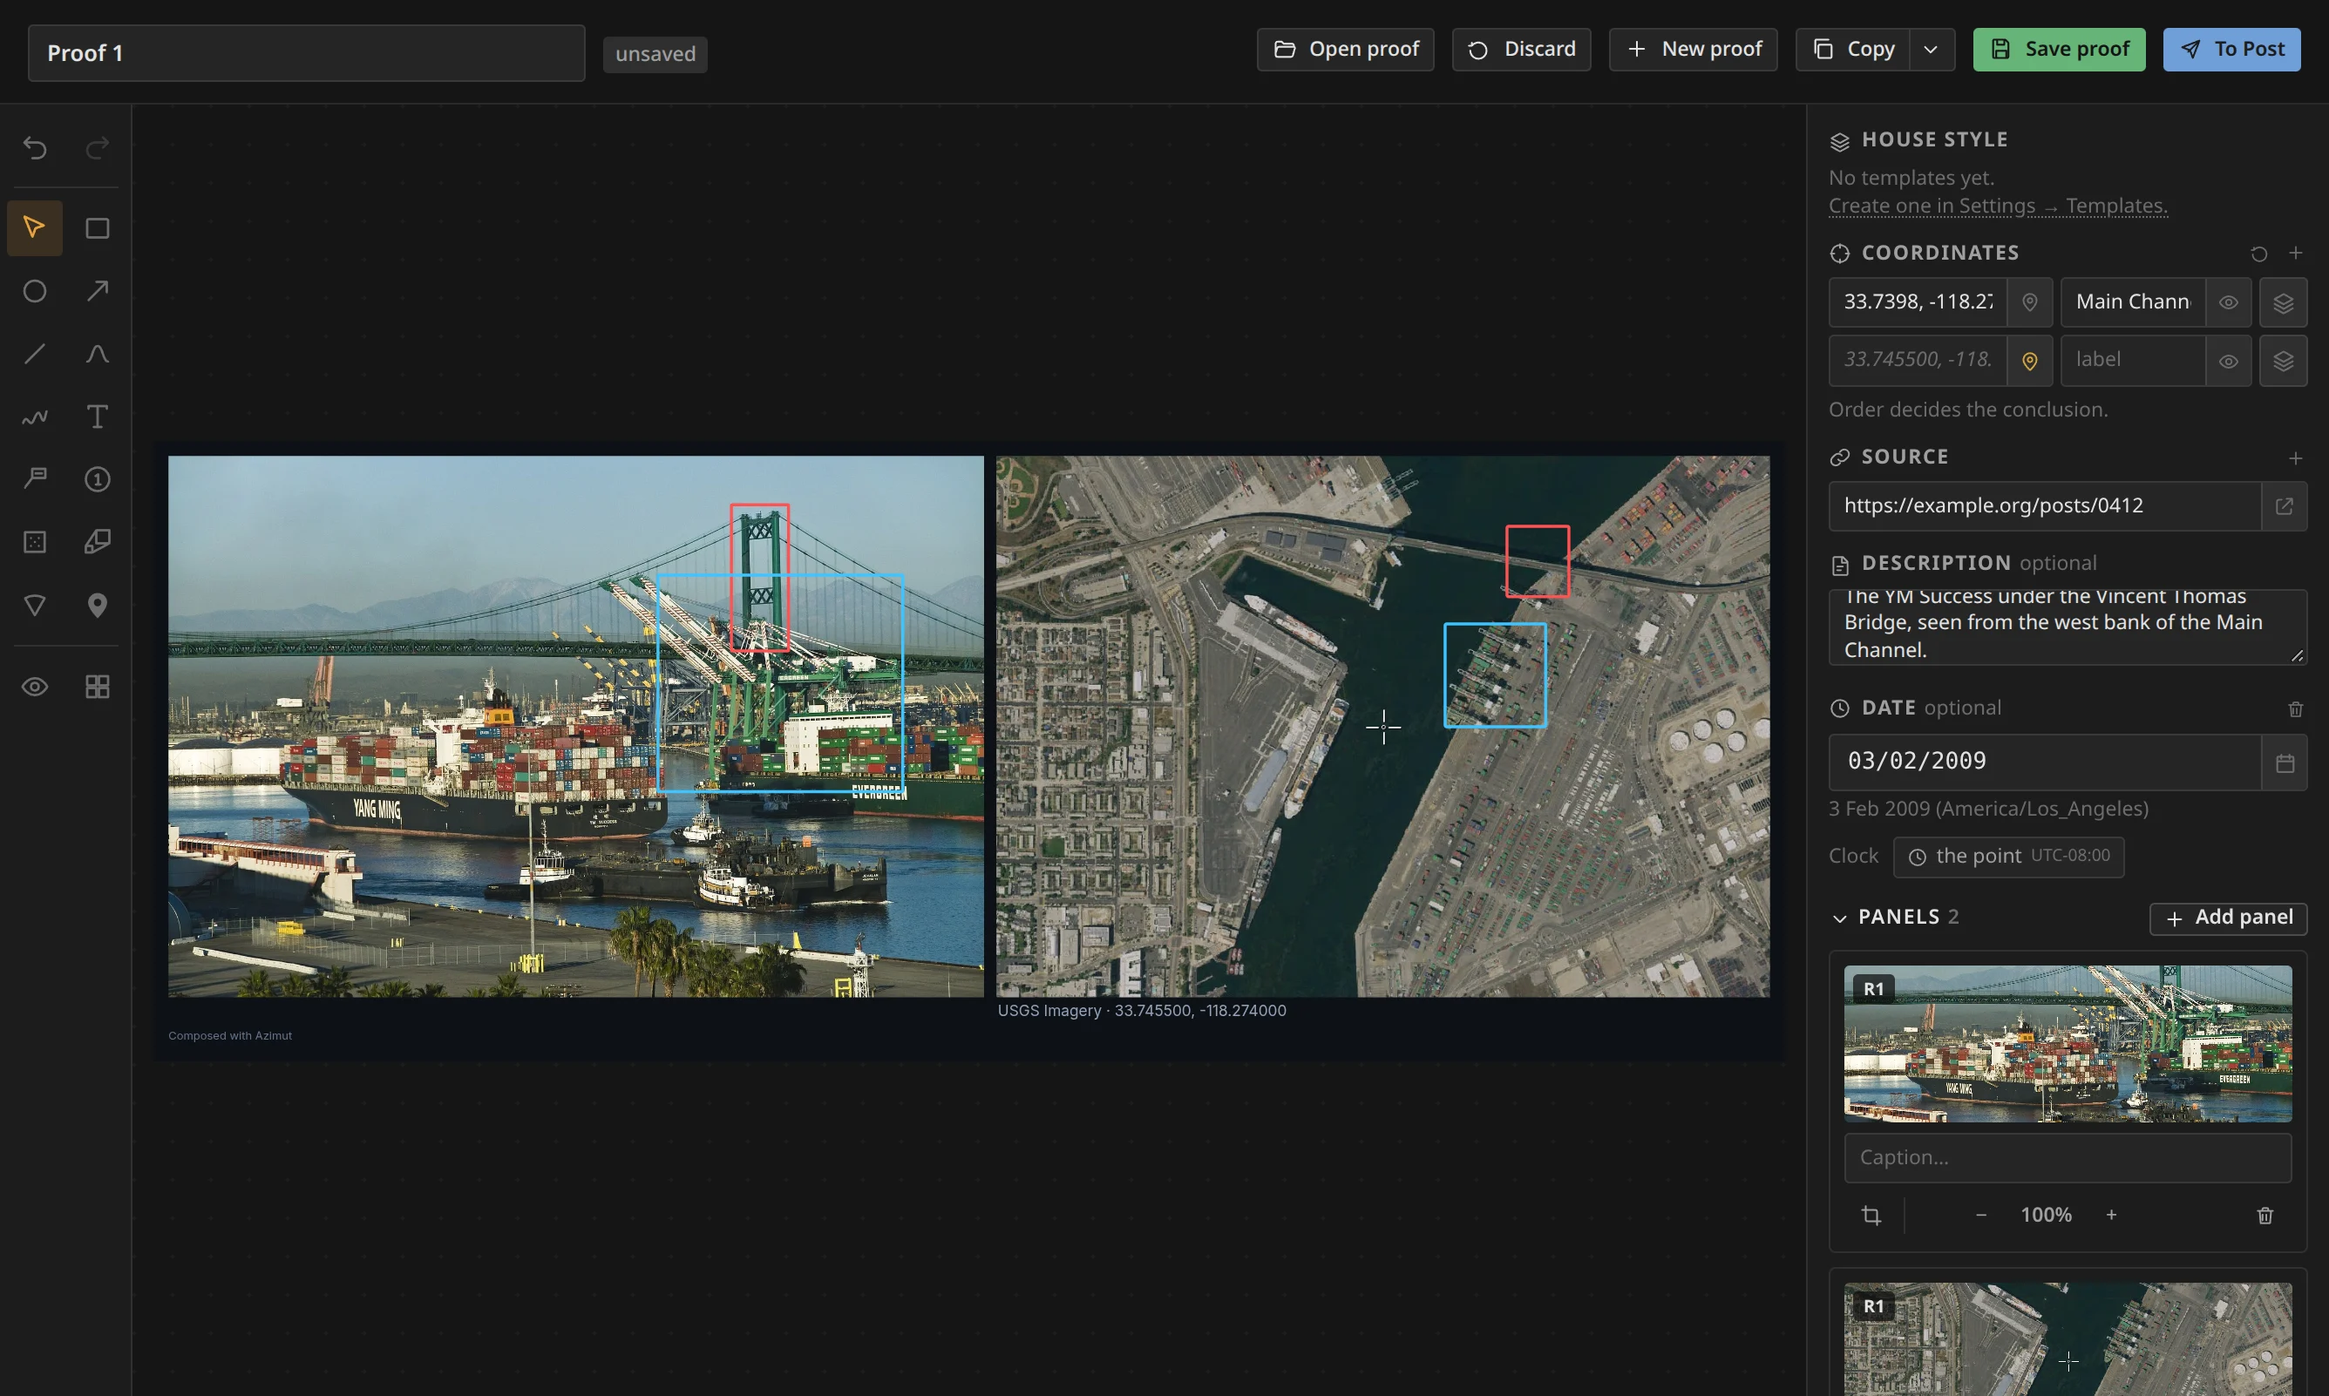
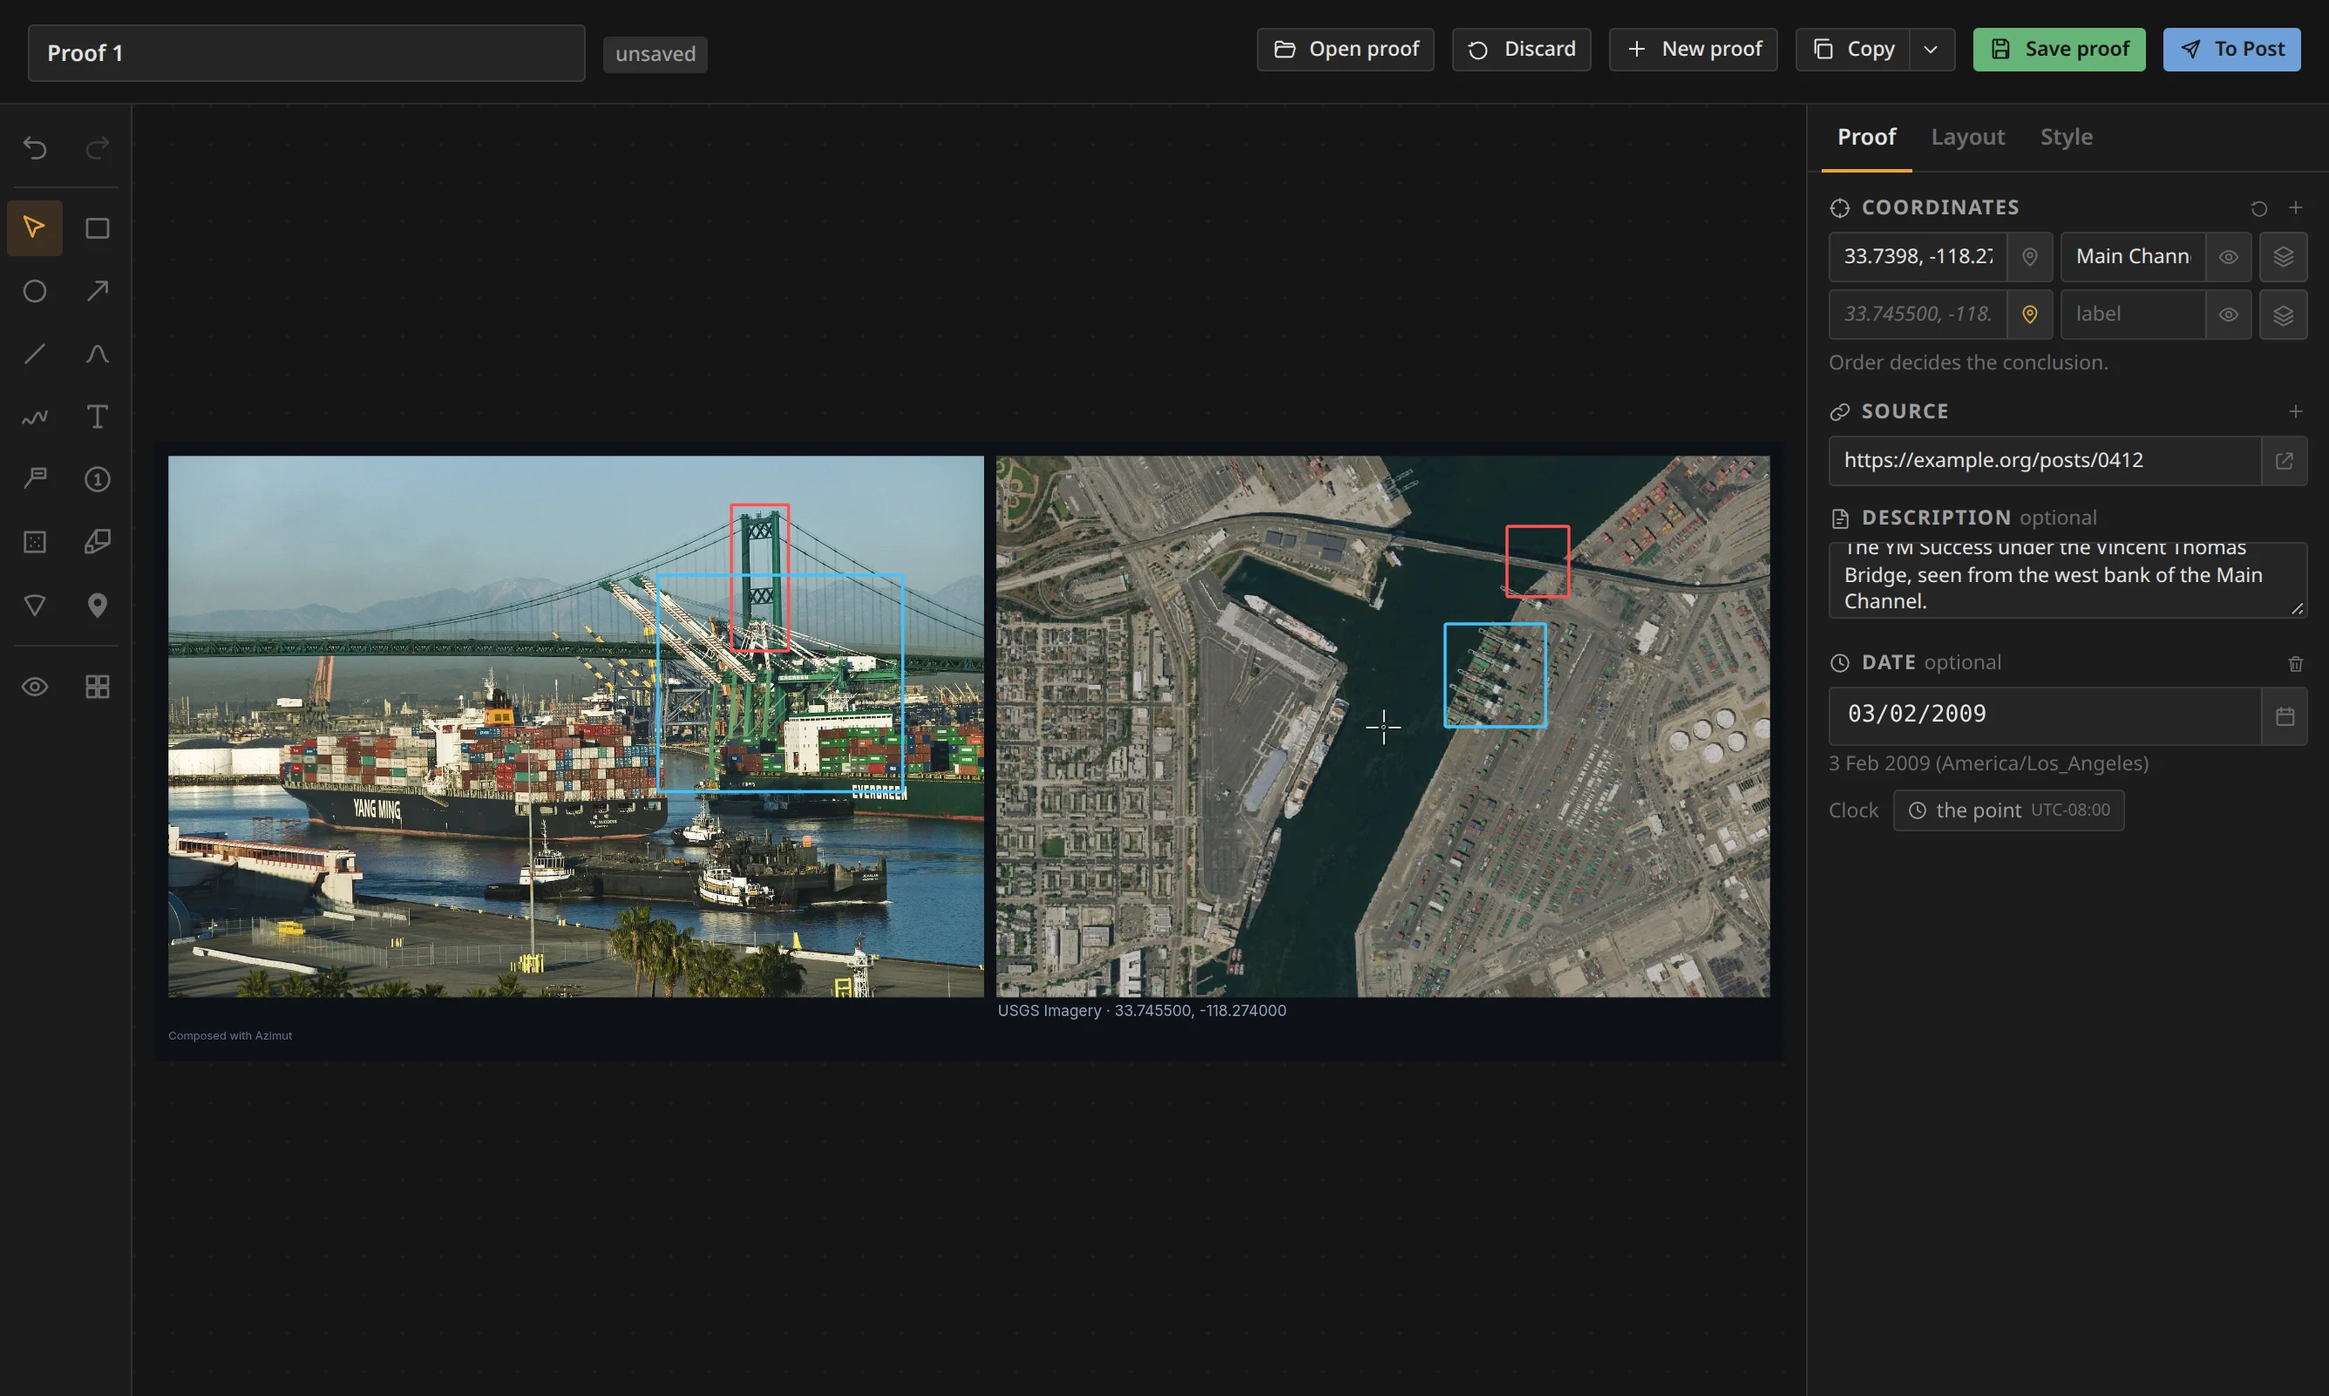
Mark Geo Proof's tabs in the guide, retake its picture with both points, and describe the tabs, the narrow header and player, and the scene offered on a capture

diff --git a/frontend/src/lib/guide.js b/frontend/src/lib/guide.js
@@ -701,7 +701,7 @@ export const PAGES = {
       { anchor: 'proof.canvas', title: 'The page', text: 'A mark dragged into the margin stays put, and an arrow between two pictures follows both.' },
       { anchor: 'proof.coords', title: 'The point', text: 'Filled from a satellite panel or typed. Each place can be named, and one can be the camera.' },
       { anchor: 'proof.meta', title: 'Source, description, date', text: 'Several sources, a description, and a date read on a clock, at the point or in UTC.' },
-      { anchor: 'proof.panels', title: 'Panels', text: 'The pictures, each with a caption, a crop and a zoom.' },
+      { anchor: 'proof.tabs', title: 'Tabs', text: 'Proof holds the facts, Layout the pictures and their marks, Style the look. A proof on a video adds Scene.' },
       { anchor: 'proof.save', title: 'Save and post', text: 'Saves the PNG with its spec, so it reopens and edits. To Post carries it into Geo Report.' },
     ],
     tips: [
@@ -928,7 +928,7 @@ export const JOURNEYS = [
         text: 'Search the area and hold the photo over the map in a reference window. Use whichever Map tool helps, Compare, Horizon, Measure or the sun, then capture the view.',
         marks: ['sat.search', 'map.ref', 'sat.tools', 'sat.capture'],
       },
-      { tool: 'proof', text: 'Put the photo beside the capture, mark what agrees in one colour per feature, and name the point. It is filed as a place.', marks: ['proof.panels', 'proof.tools', 'proof.coords'] },
+      { tool: 'proof', text: 'Put the photo beside the capture, mark what agrees in one colour per feature, and name the point. It is filed as a place.', marks: ['proof.tabs', 'proof.tools', 'proof.coords'] },
       { tool: 'post', text: 'Turn the proof into a sourced thread, then Publish copies the posts and opens the site.', marks: ['post.first', 'post.publish'] },
     ],
     result: {

diff --git a/frontend/src/tools/proof/ProofSideTabs.svelte b/frontend/src/tools/proof/ProofSideTabs.svelte
@@ -25,7 +25,7 @@
   }
 </script>
 
-<div class="side-tabs" role="tablist" aria-label="Proof settings" tabindex="-1" onkeydown={key}>
+<div class="side-tabs" role="tablist" aria-label="Proof settings" tabindex="-1" onkeydown={key} data-guide="proof.tabs">
   {#each tabs as one (one.id)}
     {@const on = one.id === current}
     {@const warn = one.id === 'proof' && !!needs}

diff --git a/docs/UI.md b/docs/UI.md
@@ -1791,13 +1791,17 @@ one in its colour, a pin at an instant and a band over a passage, named on hover
 The button opens and closes a **drawer docked on the video's right**, above the bar:
 it narrows the picture, which fits itself again, rather than covering it, and closes
 whenever a file opens. It lists the scenes in clip order, a scene about the whole
-video first: a passage to play on a loop, a word about what to find, End here and
-remove. **Pressing a scene's time goes there and opens it in its row**: Whole video,
+video first: a passage to play on a loop, a word about what to find and remove on its
+line, and under its time End here and **Make the proof**, said in words. **Pressing a scene's time goes there and opens it in its row**: Whole video,
 Instant or Passage, each end typed (`1:05`, `65`, `1:05.5`), taken from the frame on
 screen with **Here**, nudged a frame with ↑ and ↓, or dragged by its handle on the
 bar. Meanwhile **S** and **Shift+S** set the start and the end. Enter or Apply keeps
 it, and so does closing the drawer; Escape drops it, and a second Escape closes the
 drawer. A draft's change goes back with Ctrl+Z like the rest.
+**A narrow player keeps its buttons.** The frame on screen is never cut: the frame
+count goes first, then the clip's length and the keys hint, then the word Scenes (its
+pin and count stay), and past that the last buttons wrap whole, on the right. The
+drawer gives way down to 260 px before the picture shrinks below a third of the room.
 **The proofs resting on the clip are its proved scenes**, in the same drawer and on
 the same bar, each opening its proof. A proof built on frames cut here and stating
 no time of its own is about the whole video, pinned at those frames on the bar and
@@ -1814,7 +1818,13 @@ the proof sent to the Trash gives it back to geolocate at its own time, and rest
 from there it is proved again (`GET /cases/{id}/scenes`, whose `taken` names the drafts
 a proof in the case cites).
 
-**A capture never makes a scene; a frame belongs to one by its time.** In the strip, a
+**A capture never makes a scene; a frame belongs to one by its time.** A frame captured
+in no scene offers one instead, *Frame captured at 0:00.48 · Add a scene*, with
+**Whole video** and **This moment** (an instant at that frame), each with its Undo. A
+burst of captures shares one offer, which goes by on its own and then keeps quiet a
+while, as it does once a scene is kept any other way; past three offers left unused on
+a file it stops until another file opens, and a clip with a whole-video scene to
+geolocate is never asked again, since that scene already holds every frame. In the strip, a
 frame inside a passage, on an instant, or on a frame a whole-video proof rests on
 carries a small dot in that scene's colour, one per scene and three at most, the
 scenes named on hover. A draft about the whole video dots nothing. A frame a proof lays
@@ -4040,7 +4050,7 @@ in the composer are not panels.
 **Overlays.** Ctrl+V, a drop on the canvas, or `+ Add overlay` put an image
 straight into the proof. Ctrl+V answers to two clipboards, and the rule is which
 copy came last: an annotation copied here wins, until leaving the window and
-coming back hands the chord back to the system clipboard. It lands in the `Overlays` section of the side column,
+coming back hands the chord back to the system clipboard. It lands in the `Overlays` section of the Layout tab,
 sits above the panels and the legend, and is moved,
 resized from its corners and framed like anything else on the canvas — you can
 annotate it too. It claims no source: no media is filed, no entity, no
@@ -4049,7 +4059,23 @@ content hash, travels with a rename, and goes when the proof does. A proof needs
 a panel first, since the panels are what give the document its size — moving an
 overlay never resizes the export.
 
-**Coordinates and sources.** Both sit above the panels and both fill themselves in:
+**The side column is four tabs**: **Proof** (coordinates, source, description and
+date, the facts filled once), **Scene** (only for a proof built on a video), **Layout**
+(panels, overlays, annotations and elements, where composing happens) and **Style**
+(the house style, then **Text**, with the font, bold, Caption new panels, the caption
+and legend sizes and Scene time on the picture, **Footer**, and **Signature**, with
+**Logo** and the account handle). A new proof opens on Layout, since it starts with
+panels; one made with Inspect's Make the proof opens on Scene, its player running; any
+other opens on the tab in use, Proof at first, which lasts the session and is never
+saved. A ▶ pressed on the canvas shows Scene. Each tab scrolls on its own and keeps its
+place, and the arrows, Home and End walk the tabs without reaching the canvas behind.
+**The Proof tab carries its fields' `!`** on its label, *Still needs coordinates and a
+source* on hover, a date the save would refuse included, so a blank is not forgotten
+while composing in Layout. Nothing on the canvas or in the export depends on the tab.
+**A narrow header keeps Save in sight**: under 920 px Open proof, Discard, New proof and
+Copy show their icons alone, on the same single line, so the canvas never moves.
+
+**Coordinates and sources.** Both head the Proof tab and both fill themselves in:
 the coordinates from the first panel that carries them, the sources from the address
 each panel's media traces back to.
 
@@ -4084,7 +4110,7 @@ site as 2 other geolocations · @BashaReport posted 3 other files here*, with **
 graph**. It is read from the points and the addresses (`GET /entities/{id}/kin`), so it
 answers before the link pass has filed anything, and it goes at the next edit. A proof
 that shares nothing draws no line.
-The exported picture prints them only when asked (Advanced → Show coordinates):
+The exported picture prints them only when asked (Style → Show coordinates):
 unnamed points share one line, a named one takes its own, and the plate grows by
 what it prints. **Show text** switches the credit line off beside it, so a plate
 can carry its points and nothing else; with both off the band takes no height at
@@ -4114,7 +4140,8 @@ Wherever a source is *read* rather than edited — the post it is handed to, the
 report — it is one address per line, and a report renders one link each.
 
 **Description and date** sit under the source, both marked *optional* and neither
-printed on the plate. Everything above them carries a `!` when it is empty, so a
+printed on the plate. Everything above them carries a `!` when it is empty, repeated on the Proof tab's
+label, so a
 panel of blanks otherwise reads as a form to finish.
 
 The **description** is one sentence about what the proof shows. It is the proof's
@@ -4175,35 +4202,38 @@ the analyst added. Changing the date restates it, clearing it takes it back, and
 statement someone has since added reasoning to is left alone. Statements written before
 this are corrected on the proof's next save.
 
-**A proof built on a video says so in a Scene field**, under the date. It is there only
-when a panel is a frame Inspect cut from a video, or when the proof states a time of its
-own; any other proof reads, saves and exports exactly as before. One boxed line per
-video, like a source: `★ clip.mp4 · 2:10–2:38` for the video the proof is about, which
+**A proof built on a video gets a Scene tab**, between Proof and Layout. It is there
+only when a panel is a frame Inspect cut from a video, or when the proof states a time of
+its own; any other proof shows three tabs and reads, saves and exports exactly as before.
+Under *Video*, one boxed line per video, like a source: `★ clip.mp4 · 2:10–2:38` for the video the proof is about, which
 its date states, and `☆ other.mp4 · confirmation` for any other video among the panels,
 made the ★ in one press, its time then starting as the whole video. A proof that states
 no time reads *Whole video*: the instants its frames were cut at pin it, they are not
 its time.
 
 **The time opens Inspect's own editor**: Whole video, Instant or Passage, a line per
-moment, typed or nudged a frame with ↑/↓, and **Here** takes the frame on the field's
+moment, typed or nudged a frame with ↑/↓, and **Here** takes the frame on the tab's
 player. Apply writes a saved proof's time at once, through its own route, with Undo in
 the toast; a proof never saved holds it and writes it right after its first save.
 
-**The play act opens a small player under the fields**: muted, the clip in a 16:9
-window, and a thin bar where the moments are bands and pins in the colour the scene has
-on Inspect's bar, and the proof's panels are dots. It runs through the moments, each
-passage played and each instant held a beat, or the whole video from the first panel's
-frame; the loop button starts and stops that, and it never starts on its own for a
-system set to reduce motion. ←/→ step a frame, Shift a second, Space plays, and none of
+**The player has the Scene tab to itself**: it opens with the tab on the ★ video,
+paused where the scene starts, muted, at the clip's own shape up to under half the
+window's height, with a thin bar where the moments are bands and pins in the colour the
+scene has on Inspect's bar, and the proof's panels are dots. The play act at the end of
+a video's line runs that video in it: through the moments, each passage played and each
+instant held a beat, or the whole video from the first panel's frame; the loop button
+starts and stops that, and it never starts on its own for a system set to reduce motion.
+Leaving the tab pauses it on its frame, and keeps a time being changed when it reads as
+one. ←/→ step a frame, Shift a second, Space plays, and none of
 them reach the canvas behind. **Add this frame** files the frame on screen as Inspect
 files a capture and adds it as a panel the way the picker does, so its source traces as
 usual. Each panel cut from a video carries a ▶ in its corner on the canvas, drawn with
-the handles and never exported, which opens the player on that panel's frame.
+the handles and never exported, which shows the Scene tab on that panel's frame.
 
 **Nothing moves the time behind the analyst's back.** When a frame of the ★ video falls
 outside every moment stated, the field says *1 panel is outside these moments* and
 offers **Add its moment**, an instant at that frame. **Scene time on the picture**
-(Advanced, off by default, offered only for a proof built on a video) prints
+(Style, off by default, offered only for a proof built on a video) prints
 `clip.mp4 · 2:10–2:38` in a dark tag at the bottom left of each ★ panel, the moment that
 panel's frame shows in. It is drawn on the page, so the exported picture is the canvas.
 A proof about the whole video has no time to print, and the house style leaves it to
@@ -4266,7 +4296,7 @@ stays out of the legend, which is still built from annotation colours alone.
 so a proof set in it changed width from one computer to the next and a re-export no
 longer matched what was published. A proof is set in Inter, Barlow Condensed,
 Oxanium or IBM Plex Mono, shipped in the build, with Latin and Cyrillic where the
-face has them; Advanced picks it per proof, and the house style carries it, with a
+face has them; the Style tab picks it per proof, and the house style carries it, with a
 switch for labels, callouts and tags in bold. A proof saved before fonts keeps the
 system's until it is changed. An export waits for the face to be loaded.
 
@@ -4429,7 +4459,7 @@ keeps the frame's proportions and turns with a turned picture. It is drawn from 
 picture's pixels and from the blur boxes over them, so a redaction holds in the
 enlargement too.
 
-**The order they stack in.** The side column's **Elements** list runs front-first,
+**The order they stack in.** The Layout tab's **Elements** list runs front-first,
 the way the Panels list above it does: the row on top is the mark on top of the
 picture. A row is **dragged by its grip to reorder it**; the right-click and Ctrl+↑/↓
 restack in place. The order is one order for the whole proof, while what an
